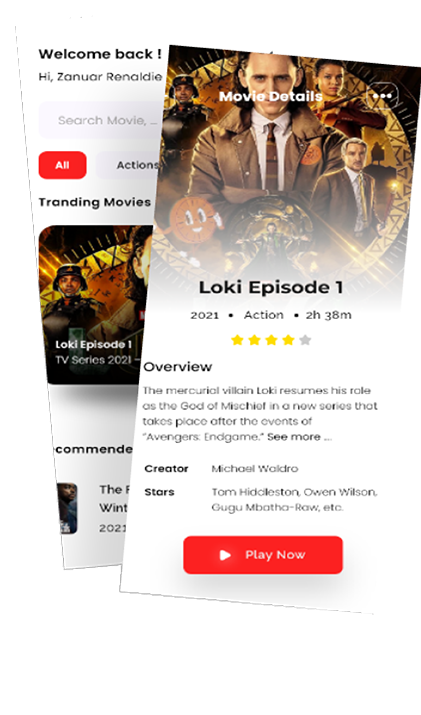
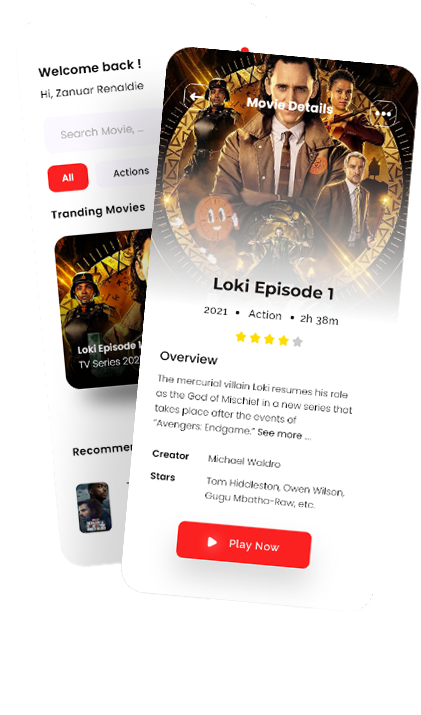
add footer-active-classes and change startpage-image

Changed region(s): [[0.0618, 0.0615, 1.0, 0.8308], [0.1235, 0.6154, 0.3397, 0.8308]]

diff --git a/src/components/footer/Footer.tsx b/src/components/footer/Footer.tsx
@@ -1,27 +1,36 @@
-import { Link } from "react-router-dom";
+import "./Footer.css"
+import { useState } from "react";
+import { Link, useLocation } from "react-router-dom";
 
 export const Footer = ({ showFooter = true }) => {
-	if (!showFooter) return null; // Verhindert das Rendern, wenn `showFooter` false ist
+	const location = useLocation();
+	const [activeButton, setActiveButton] = useState(location.pathname);
+
+	if (!showFooter) return null;
+
+	const handleClick = (path: string) => {
+		setActiveButton(path);
+	};
 
 	return (
-		<footer className="w-100 flex justify-evenly gap-2.5 py-2.5 fixed bottom-0 left-[50%] translate-x-[-50%] bg-red-light transition-opacity duration-1000">
-			<Link to="/home">
-				<button type="button" className="relative">
+		<footer className="w-full flex justify-evenly gap-2.5 py-2.5 fixed bottom-0 left-[50%] translate-x-[-50%] bg-red-light transition-opacity duration-1000">
+			<Link to="/home" onClick={() => handleClick("/home")}>
+				<button type="button" className={`relative ${activeButton === "/home" ? "active" : ""}`}>
 					<img src="/public/home-icon.png" alt="Home-Icon" title="Home-Icon" aria-label="Home-Icon" />
 				</button>
 			</Link>
-			<Link to="">
-				<button type="button" className="relative">
+			<Link to="/favorites" onClick={() => handleClick("/favorites")}>
+				<button type="button" className={`relative ${activeButton === "/favorites" ? "active" : ""}`}>
 					<img src="/public/favorite-icon.png" alt="Favorite-Icon" title="Favorite-Icon" aria-label="Favorite-Icon" />
 				</button>
 			</Link>
-			<Link to="">
-				<button type="button" className="relative">
+			<Link to="/downloads" onClick={() => handleClick("/downloads")}>
+				<button type="button" className={`relative ${activeButton === "/downloads" ? "active" : ""}`}>
 					<img src="/public/download-icon.png" alt="Download-Icon" title="Download-Icon" aria-label="Download-Icon" />
 				</button>
 			</Link>
-			<Link to="">
-				<button type="button" className="relative">
+			<Link to="/profile" onClick={() => handleClick("/profile")}>
+				<button type="button" className={`relative ${activeButton === "/profile" ? "active" : ""}`}>
 					<img src="/public/user-icon.png" alt="User-Icon" title="User-Icon" aria-label="User-Icon" />
 				</button>
 			</Link>

diff --git a/src/index.css b/src/index.css
@@ -1,16 +1,6 @@
 @import "tailwindcss";
 /*@plugin "daisyui";*/
 
-footer button::before {
-	position: absolute;
-	content: "";
-	bottom: -8px;
-	left: 0;
-	width: 100%;
-	height: 2px;
-	background-color: var(--color-red);
-}
-
 @theme {
 	/* colors: */
 	--color-red: #fc2121;

diff --git a/src/components/footer/Footer.css b/src/components/footer/Footer.css
@@ -1,0 +1,13 @@
+footer button.active {
+	position: relative;
+}
+
+footer button.active::before {
+	position: absolute;
+	content: "";
+	top: -10px;
+	left: 0;
+	width: 100%;
+	height: 4px;
+	background-color: var(--color-red);
+}
